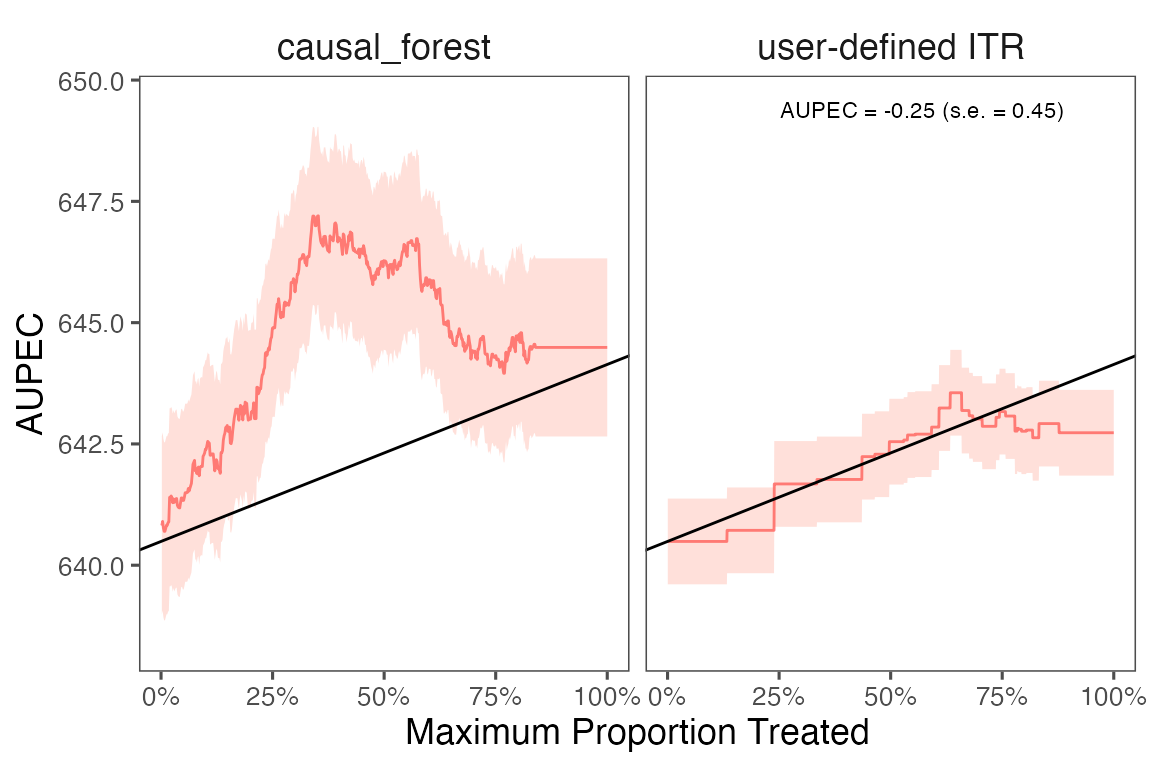
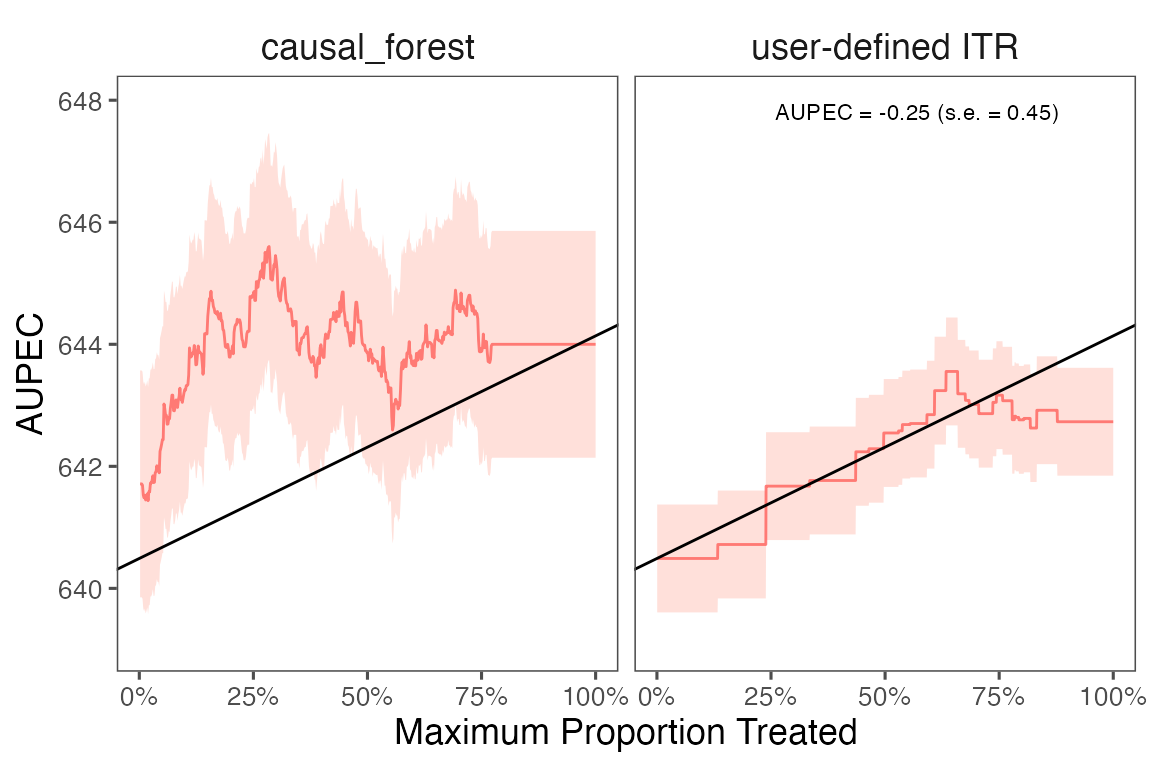
add alg 1 in vignette

diff --git a/docs/articles/user_itr_algs.html b/docs/articles/user_itr_algs.html
@@ -170,12 +170,12 @@ and AUPEC for the user defined ITR.</p>
 <span><span class="fu"><a href="https://rdrr.io/r/base/summary.html" class="external-link">summary</a></span><span class="op">(</span><span class="va">compare_itr</span><span class="op">)</span></span>
 <span><span class="co">#&gt; ── PAPE ────────────────────────────────────────────────────────────────────────</span></span>
 <span><span class="co">#&gt;   estimate std.deviation     algorithm statistic p.value</span></span>
-<span><span class="co">#&gt; 1      1.6           1.1 causal_forest       1.5    0.15</span></span>
+<span><span class="co">#&gt; 1      0.3           1.2 causal_forest      0.26     0.8</span></span>
 <span><span class="co">#&gt; 2      0.0           0.0      user_itr       NaN     NaN</span></span>
 <span><span class="co">#&gt; </span></span>
 <span><span class="co">#&gt; ── PAPEp ───────────────────────────────────────────────────────────────────────</span></span>
 <span><span class="co">#&gt;   estimate std.deviation     algorithm statistic p.value</span></span>
-<span><span class="co">#&gt; 1    1.780          1.17 causal_forest     1.517    0.13</span></span>
+<span><span class="co">#&gt; 1    1.695          1.23 causal_forest     1.381    0.17</span></span>
 <span><span class="co">#&gt; 2    0.032          0.66      user_itr     0.049    0.96</span></span>
 <span><span class="co">#&gt; </span></span>
 <span><span class="co">#&gt; ── PAPDp ───────────────────────────────────────────────────────────────────────</span></span>
@@ -183,21 +183,21 @@ and AUPEC for the user defined ITR.</p>
 <span><span class="co">#&gt; </span></span>
 <span><span class="co">#&gt; ── AUPEC ───────────────────────────────────────────────────────────────────────</span></span>
 <span><span class="co">#&gt;   estimate std.deviation     algorithm statistic p.value</span></span>
-<span><span class="co">#&gt; 1     2.64          0.94 causal_forest      2.82  0.0048</span></span>
-<span><span class="co">#&gt; 2    -0.25          0.45          &lt;NA&gt;     -0.55  0.5815</span></span>
+<span><span class="co">#&gt; 1     0.98          0.95 causal_forest      1.04    0.30</span></span>
+<span><span class="co">#&gt; 2    -0.25          0.45          &lt;NA&gt;     -0.55    0.58</span></span>
 <span><span class="co">#&gt; </span></span>
 <span><span class="co">#&gt; ── GATE ────────────────────────────────────────────────────────────────────────</span></span>
 <span><span class="co">#&gt;    estimate std.deviation     algorithm group statistic p.value  upper lower</span></span>
-<span><span class="co">#&gt; 1       -92           107 causal_forest     1     -0.86   0.391 -268.6    85</span></span>
-<span><span class="co">#&gt; 2       -91           108 causal_forest     2     -0.84   0.398 -267.7    86</span></span>
-<span><span class="co">#&gt; 3        45           109 causal_forest     3      0.41   0.681 -134.0   223</span></span>
-<span><span class="co">#&gt; 4       -33           108 causal_forest     4     -0.31   0.759 -210.1   144</span></span>
-<span><span class="co">#&gt; 5       184           107 causal_forest     5      1.72   0.085    8.1   360</span></span>
-<span><span class="co">#&gt; 6        98            58      user_itr     1      1.68   0.093    2.1   194</span></span>
-<span><span class="co">#&gt; 7       -27            59      user_itr     2     -0.46   0.644 -123.5    69</span></span>
-<span><span class="co">#&gt; 8       -20            59      user_itr     3     -0.33   0.742 -117.2    78</span></span>
-<span><span class="co">#&gt; 9        97            60      user_itr     4      1.62   0.106   -1.6   195</span></span>
-<span><span class="co">#&gt; 10     -130            59      user_itr     5     -2.20   0.028 -226.6   -33</span></span></code></pre></div>
+<span><span class="co">#&gt; 1       9.4           109 causal_forest     1     0.087   0.931 -169.3   188</span></span>
+<span><span class="co">#&gt; 2     -77.9           107 causal_forest     2    -0.726   0.468 -254.5    99</span></span>
+<span><span class="co">#&gt; 3     165.6           109 causal_forest     3     1.522   0.128  -13.4   345</span></span>
+<span><span class="co">#&gt; 4      -2.4           109 causal_forest     4    -0.022   0.983 -181.6   177</span></span>
+<span><span class="co">#&gt; 5     -81.5           106 causal_forest     5    -0.767   0.443 -256.5    93</span></span>
+<span><span class="co">#&gt; 6      97.9            58      user_itr     1     1.681   0.093    2.1   194</span></span>
+<span><span class="co">#&gt; 7     -27.1            59      user_itr     2    -0.462   0.644 -123.5    69</span></span>
+<span><span class="co">#&gt; 8     -19.5            59      user_itr     3    -0.329   0.742 -117.2    78</span></span>
+<span><span class="co">#&gt; 9      96.6            60      user_itr     4     1.617   0.106   -1.6   195</span></span>
+<span><span class="co">#&gt; 10   -129.6            59      user_itr     5    -2.200   0.028 -226.6   -33</span></span></code></pre></div>
 <p>We plot the estimated Area Under the Prescriptive Effect Curve
 (AUPEC) for the writing score across a range of budget constraints for
 user defined ITR and estimated ITRs. The plot shows that the estimated
@@ -263,8 +263,7 @@ model</td>
 </tbody>
 </table>
 <div class="sourceCode" id="cb3"><pre class="downlit sourceCode r">
-<code class="sourceCode R"><span></span>
-<span><span class="co"># user's own model</span></span>
+<code class="sourceCode R"><span><span class="co"># user's own model</span></span>
 <span><span class="va">user_model</span> <span class="op">&lt;-</span> <span class="kw">function</span><span class="op">(</span><span class="va">data</span><span class="op">)</span><span class="op">{</span></span>
 <span>  <span class="va">model</span> <span class="op">&lt;-</span> <span class="fu"><a href="https://rdrr.io/r/stats/lm.html" class="external-link">lm</a></span><span class="op">(</span><span class="va">Y</span> <span class="op">~</span> <span class="cn">T</span><span class="op">*</span><span class="op">(</span><span class="va">GKWHITE</span> <span class="op">+</span> <span class="va">GKBUSED</span> <span class="op">+</span> <span class="va">GKFRLNCH</span><span class="op">)</span>, data <span class="op">=</span> <span class="va">data</span><span class="op">)</span></span>
 <span>  <span class="kw"><a href="https://rdrr.io/r/base/function.html" class="external-link">return</a></span><span class="op">(</span><span class="va">model</span><span class="op">)</span></span>
@@ -289,35 +288,35 @@ model</td>
 <span><span class="fu"><a href="https://rdrr.io/r/base/summary.html" class="external-link">summary</a></span><span class="op">(</span><span class="va">compare_est</span><span class="op">)</span></span>
 <span><span class="co">#&gt; ── PAPE ────────────────────────────────────────────────────────────────────────</span></span>
 <span><span class="co">#&gt;   estimate std.deviation     algorithm statistic p.value</span></span>
-<span><span class="co">#&gt; 1     0.81           1.4 causal_forest      0.57    0.57</span></span>
-<span><span class="co">#&gt; 2     0.00           0.0    user_model       NaN     NaN</span></span>
+<span><span class="co">#&gt; 1  2.5e-01       1.4e+00 causal_forest   1.9e-01    0.85</span></span>
+<span><span class="co">#&gt; 2  4.4e-16       3.1e-09    user_model   1.5e-07    1.00</span></span>
 <span><span class="co">#&gt; </span></span>
 <span><span class="co">#&gt; ── PAPEp ───────────────────────────────────────────────────────────────────────</span></span>
 <span><span class="co">#&gt;   estimate std.deviation     algorithm statistic p.value</span></span>
-<span><span class="co">#&gt; 1     3.94           1.2 causal_forest      3.36 0.00079</span></span>
-<span><span class="co">#&gt; 2    -0.49           1.1    user_model     -0.44 0.65709</span></span>
+<span><span class="co">#&gt; 1      3.6           1.3 causal_forest      2.85  0.0044</span></span>
+<span><span class="co">#&gt; 2      1.2           1.2    user_model      0.98  0.3271</span></span>
 <span><span class="co">#&gt; </span></span>
 <span><span class="co">#&gt; ── PAPDp ───────────────────────────────────────────────────────────────────────</span></span>
 <span><span class="co">#&gt;   estimate std.deviation                  algorithm statistic p.value</span></span>
-<span><span class="co">#&gt; 1      4.4           1.6 causal_forest x user_model       2.8   0.005</span></span>
+<span><span class="co">#&gt; 1      2.5           1.9 causal_forest x user_model       1.3    0.18</span></span>
 <span><span class="co">#&gt; </span></span>
 <span><span class="co">#&gt; ── AUPEC ───────────────────────────────────────────────────────────────────────</span></span>
 <span><span class="co">#&gt;   estimate std.deviation     algorithm statistic p.value</span></span>
-<span><span class="co">#&gt; 1      1.4          1.10 causal_forest       1.2    0.21</span></span>
-<span><span class="co">#&gt; 2     -1.1          0.81    user_model      -1.3    0.19</span></span>
+<span><span class="co">#&gt; 1     1.62          1.08 causal_forest      1.49    0.14</span></span>
+<span><span class="co">#&gt; 2    -0.91          0.92    user_model     -0.99    0.32</span></span>
 <span><span class="co">#&gt; </span></span>
 <span><span class="co">#&gt; ── GATE ────────────────────────────────────────────────────────────────────────</span></span>
-<span><span class="co">#&gt;    estimate std.deviation     algorithm group statistic p.value upper lower</span></span>
-<span><span class="co">#&gt; 1     156.3           108 causal_forest     1     1.447  0.1479   -21   334</span></span>
-<span><span class="co">#&gt; 2    -133.7           107 causal_forest     2    -1.246  0.2127  -310    43</span></span>
-<span><span class="co">#&gt; 3     -98.9           108 causal_forest     3    -0.916  0.3598  -277    79</span></span>
-<span><span class="co">#&gt; 4      99.2           109 causal_forest     4     0.910  0.3627   -80   278</span></span>
-<span><span class="co">#&gt; 5       9.6           108 causal_forest     5     0.089  0.9288  -167   187</span></span>
-<span><span class="co">#&gt; 6     119.7           106    user_model     1     1.125  0.2605   -55   295</span></span>
-<span><span class="co">#&gt; 7    -124.1           108    user_model     2    -1.149  0.2506  -302    54</span></span>
-<span><span class="co">#&gt; 8    -137.9           108    user_model     3    -1.280  0.2004  -315    39</span></span>
-<span><span class="co">#&gt; 9    -128.3           108    user_model     4    -1.186  0.2357  -306    50</span></span>
-<span><span class="co">#&gt; 10    303.1           109    user_model     5     2.786  0.0053   124   482</span></span>
+<span><span class="co">#&gt;    estimate std.deviation     algorithm group statistic p.value  upper lower</span></span>
+<span><span class="co">#&gt; 1     171.5           108 causal_forest     1     1.585 1.1e-01   -6.4   350</span></span>
+<span><span class="co">#&gt; 2      -2.5           109 causal_forest     2    -0.023 9.8e-01 -181.7   177</span></span>
+<span><span class="co">#&gt; 3     -64.7           108 causal_forest     3    -0.601 5.5e-01 -241.7   112</span></span>
+<span><span class="co">#&gt; 4      -1.3           108 causal_forest     4    -0.012 9.9e-01 -178.2   176</span></span>
+<span><span class="co">#&gt; 5     -73.1           107 causal_forest     5    -0.684 4.9e-01 -249.0   103</span></span>
+<span><span class="co">#&gt; 6    -134.0           106    user_model     1    -1.262 2.1e-01 -308.7    41</span></span>
+<span><span class="co">#&gt; 7    -198.8           106    user_model     2    -1.871 6.1e-02 -373.5   -24</span></span>
+<span><span class="co">#&gt; 8    -130.6           107    user_model     3    -1.224 2.2e-01 -306.2    45</span></span>
+<span><span class="co">#&gt; 9     -29.4           109    user_model     4    -0.270 7.9e-01 -208.8   150</span></span>
+<span><span class="co">#&gt; 10    522.8           108    user_model     5     4.819 1.4e-06  344.4   701</span></span>
 <span><span class="fu"><a href="https://rdrr.io/r/graphics/plot.default.html" class="external-link">plot</a></span><span class="op">(</span><span class="va">compare_est</span><span class="op">)</span></span></code></pre></div>
 <p><img src="../reference/figures/README-compare_itr_model_summary-1.png" width="700"></p>
 </div>

diff --git a/docs/articles/cv_single_alg.html b/docs/articles/cv_single_alg.html
@@ -86,6 +86,163 @@
 
     
     
+<p>When users choose to estimate and evaluate ITR under
+cross-validation, the package implements Algorithm 1 from <a href="https://arxiv.org/abs/1905.05389" class="external-link">Imai and Li (2023)</a></p>
+<p><strong>Algorithm 1 Estimating and Evaluating an Individualized
+Treatment Rule (ITR) using the Same Experimental Data via
+Cross-Validation</strong></p>
+<table class="table">
+<colgroup>
+<col width="22%">
+<col width="21%">
+<col width="56%">
+</colgroup>
+<thead><tr class="header">
+<th align="left">Input</th>
+<th align="left">R package object</th>
+<th align="left">Descriptions</th>
+</tr></thead>
+<tbody>
+<tr class="odd">
+<td align="left">Data <span class="math inline">\(\mathcal{Z}=\left\{\mathbf{X}_i, T_i,
+Y_i\right\}_{i=1}^n\)</span>
+</td>
+<td align="left"><code>treatment = treatment, form = user_formula, data = star_data</code></td>
+<td align="left">
+<code>treatment</code> is a character string specifying
+the treatment variable in the <code>data</code>; <code>form</code> is a
+formula specifying the outcome and covariates; and a dataframe
+<code>data</code>
+</td>
+</tr>
+<tr class="even">
+<td align="left">Machine learning algorithm <span class="math inline">\(F\)</span>
+</td>
+<td align="left"><code>algorithms = c("causal_forest")</code></td>
+<td align="left">a character vector specifying the ML algorithms to be
+used</td>
+</tr>
+<tr class="odd">
+<td align="left">Evaluation metric <span class="math inline">\(\tau_f\)</span>
+</td>
+<td align="left">PAPE, PAPD, AUPEC, GATE</td>
+<td align="left">By default</td>
+</tr>
+<tr class="even">
+<td align="left">Number of folds <span class="math inline">\(K\)</span>
+</td>
+<td align="left"><code>n_folds = 3</code></td>
+<td align="left">
+<code>n_folds</code> is a numeric value indicating the
+number of folds used for cross-validation</td>
+</tr>
+<tr class="odd">
+<td align="left">…</td>
+<td align="left"><code>budget = 0.2</code></td>
+<td align="left">
+<code>budget</code> is a numeric value specifying the
+maximum percentage of population that can be treated under the budget
+constraint</td>
+</tr>
+</tbody>
+</table>
+<p>The output will be an object that includes estimated evaluation
+metric <span class="math inline">\(\hat{\tau}_F\)</span> and the
+estimated variance of <span class="math inline">\(\hat{\tau}_F\)</span>
+for different metrics (PAPE, PAPD, AUPEC).</p>
+<table style="width:100%;" class="table">
+<colgroup>
+<col width="57%">
+<col width="32%">
+<col width="10%">
+</colgroup>
+<thead><tr class="header">
+<th align="left">Steps in Algorithm 1</th>
+<th align="left">Function/object</th>
+<th align="left">Output</th>
+</tr></thead>
+<tbody>
+<tr class="odd">
+<td align="left">1. Split data into <span class="math inline">\(K\)</span> random subsets of equal size <span class="math inline">\(\left(\mathcal{Z}_1, \cdots,
+\mathcal{Z}_k\right)\)</span>
+</td>
+<td align="left">
+<code><a href="https://rdrr.io/pkg/caret/man/createDataPartition.html" class="external-link">caret::createFolds()</a></code> within
+<code><a href="../reference/estimate_itr.html">estimate_itr()</a></code>
+</td>
+<td align="left">dataframe</td>
+</tr>
+<tr class="even">
+<td align="left">2. k <span class="math inline">\(\leftarrow\)</span>
+1</td>
+<td align="left"></td>
+<td align="left"></td>
+</tr>
+<tr class="odd">
+<td align="left">3. while <span class="math inline">\(k \leq K\)</span>
+do</td>
+<td align="left">for loop in <code>fit_itr()</code> within
+<code><a href="../reference/estimate_itr.html">estimate_itr()</a></code>
+</td>
+<td align="left"></td>
+</tr>
+<tr class="even">
+<td align="left">4. <span class="math inline">\(\quad
+\mathcal{Z}_{-k}=\left[\mathcal{Z}_1, \cdots, \mathcal{Z}_{k-1},
+\mathcal{Z}_{k+1}, \cdots, \mathcal{Z}_K\right]\)</span>
+</td>
+<td align="left">
+<code>trainset</code> object</td>
+<td align="left">training data</td>
+</tr>
+<tr class="odd">
+<td align="left">5. <span class="math inline">\(\hat{f}_{-k}=F\left(\mathcal{Z}_{-k}\right)\)</span>
+</td>
+<td align="left">modulized functions for each ML algoritms (e.g.,
+<code>run_causal_forest()</code>) within
+<code><a href="../reference/estimate_itr.html">estimate_itr()</a></code>
+</td>
+<td align="left">ITR (binary vector)</td>
+</tr>
+<tr class="even">
+<td align="left">6. <span class="math inline">\(\hat{\tau}_k=\hat{\tau}_{\hat{f}_{-k}}\left(\mathcal{Z}_k\right)\)</span>
+</td>
+<td align="left">
+<code><a href="../reference/compute_qoi.html">compute_qoi()</a></code> function within
+<code><a href="../reference/evaluate_itr.html">evaluate_itr()</a></code>
+</td>
+<td align="left">metrics for fold <span class="math inline">\(k\)</span>
+</td>
+</tr>
+<tr class="odd">
+<td align="left">7. <span class="math inline">\(k \leftarrow
+k+1\)</span>
+</td>
+<td align="left"></td>
+<td align="left"></td>
+</tr>
+<tr class="even">
+<td align="left">8. end while</td>
+<td align="left"></td>
+<td align="left"></td>
+</tr>
+<tr class="odd">
+<td align="left">9.return <span class="math inline">\(\hat{\tau}_F=\frac{1}{K} \sum_{k=1}^K
+\hat{\tau}_k,
+\widehat{\mathbb{V}\left(\hat{\tau}_F\right)}=v\left(\hat{f}_{-1},
+\cdots, \hat{f}_{-k}, \mathcal{Z}_1, \cdots,
+\mathcal{Z}_K\right)\)</span>
+</td>
+<td align="left">
+<code><a href="../reference/PAPEcv.html">PAPEcv()</a></code> <code><a href="../reference/PAPDcv.html">PAPDcv()</a></code> and
+<code>getAupecOutput()</code> functions inside
+<code><a href="../reference/compute_qoi.html">compute_qoi()</a></code> function within
+<code><a href="../reference/evaluate_itr.html">evaluate_itr()</a></code>
+</td>
+<td align="left">averaging the results across folds</td>
+</tr>
+</tbody>
+</table>
 <p>The package allows estimate ITR with k-folds cross-validation.
 Instead of specifying the <code>split_ratio</code> argument, we choose
 the number of folds (<code>n_folds</code>). The following code presents

diff --git a/README.md b/README.md
@@ -13,10 +13,9 @@ and evaluating Individualized Treatment Rules under randomized data. The
 provided metrics include (1) population average prescriptive effect
 `PAPE`; (2) population average prescriptive effect with a budget
 constraint `PAPEp`; (3) population average prescriptive effect
-difference with a budget constraint `PAPDp`. This quantity will be
-computed with more than 2 machine learning algorithms); (4) and area
-under the prescriptive effect curve `AUPEC`. For more information about
-these evaluation metrics, please refer to [Imai and Li
-(2021)](https://arxiv.org/abs/1905.05389); (5) Grouped Average Treatment
+difference with a budget constraint `PAPDp`; (4) and area under the
+prescriptive effect curve `AUPEC`. For more information about these
+evaluation metrics, please refer to [Imai and Li
+(2023)](https://arxiv.org/abs/1905.05389); (5) Grouped Average Treatment
 Effects `GATEs`. The details of the methods for this design are given in
-[Imai and Li (2022)](https://arxiv.org/abs/2203.14511).
+[Imai and Li](https://arxiv.org/abs/2203.14511).
